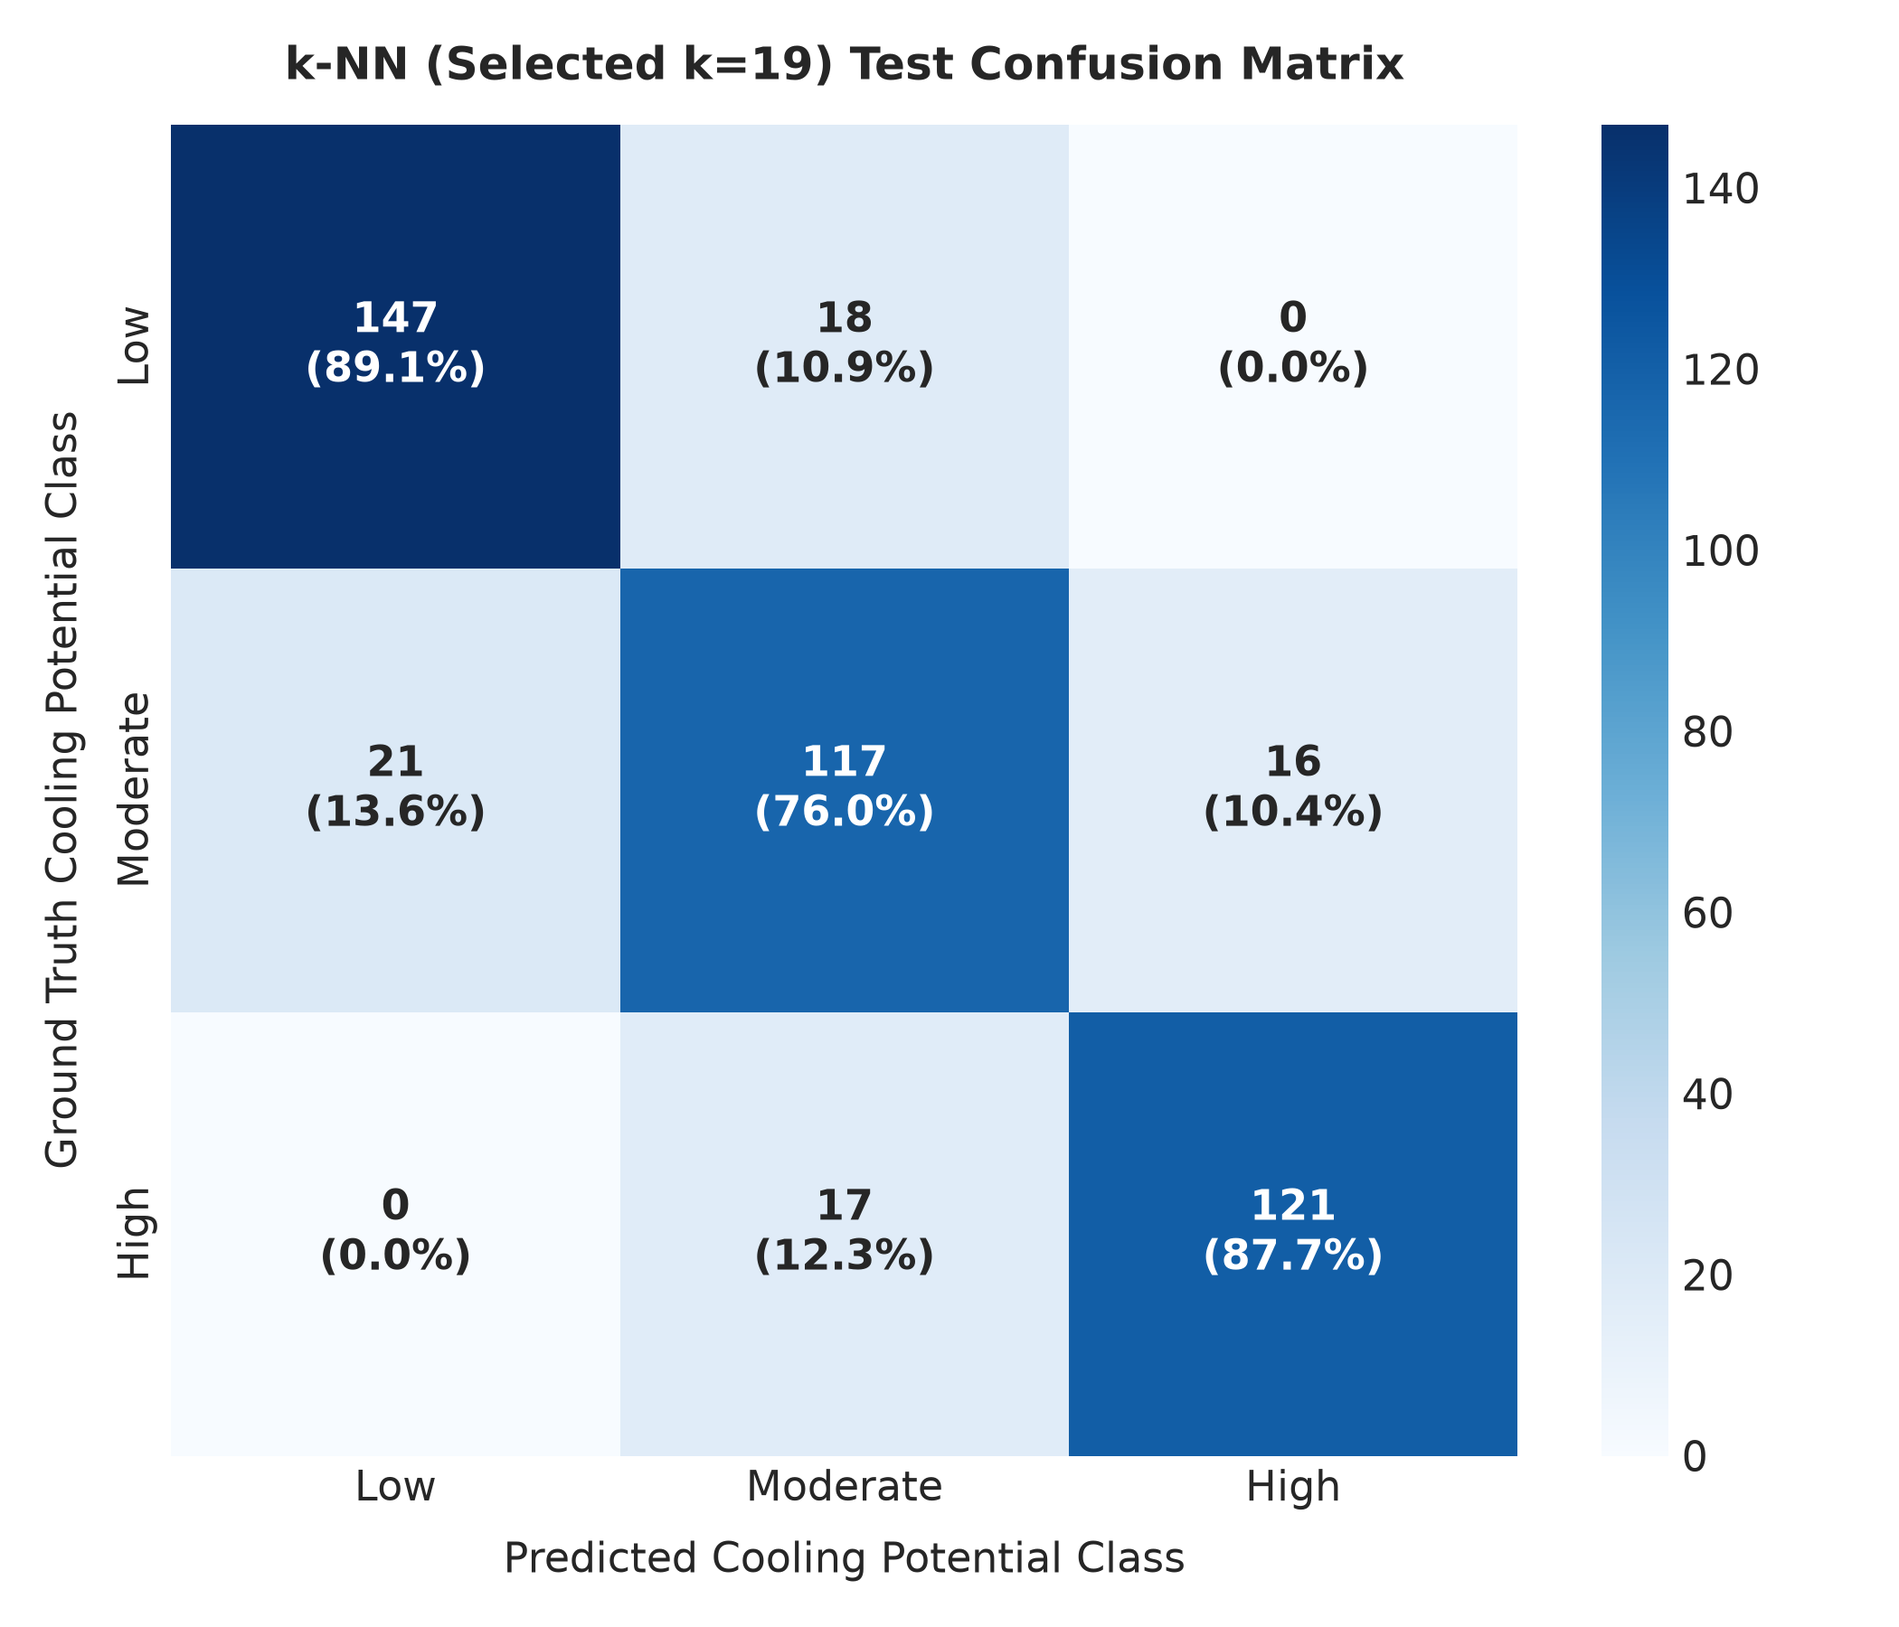
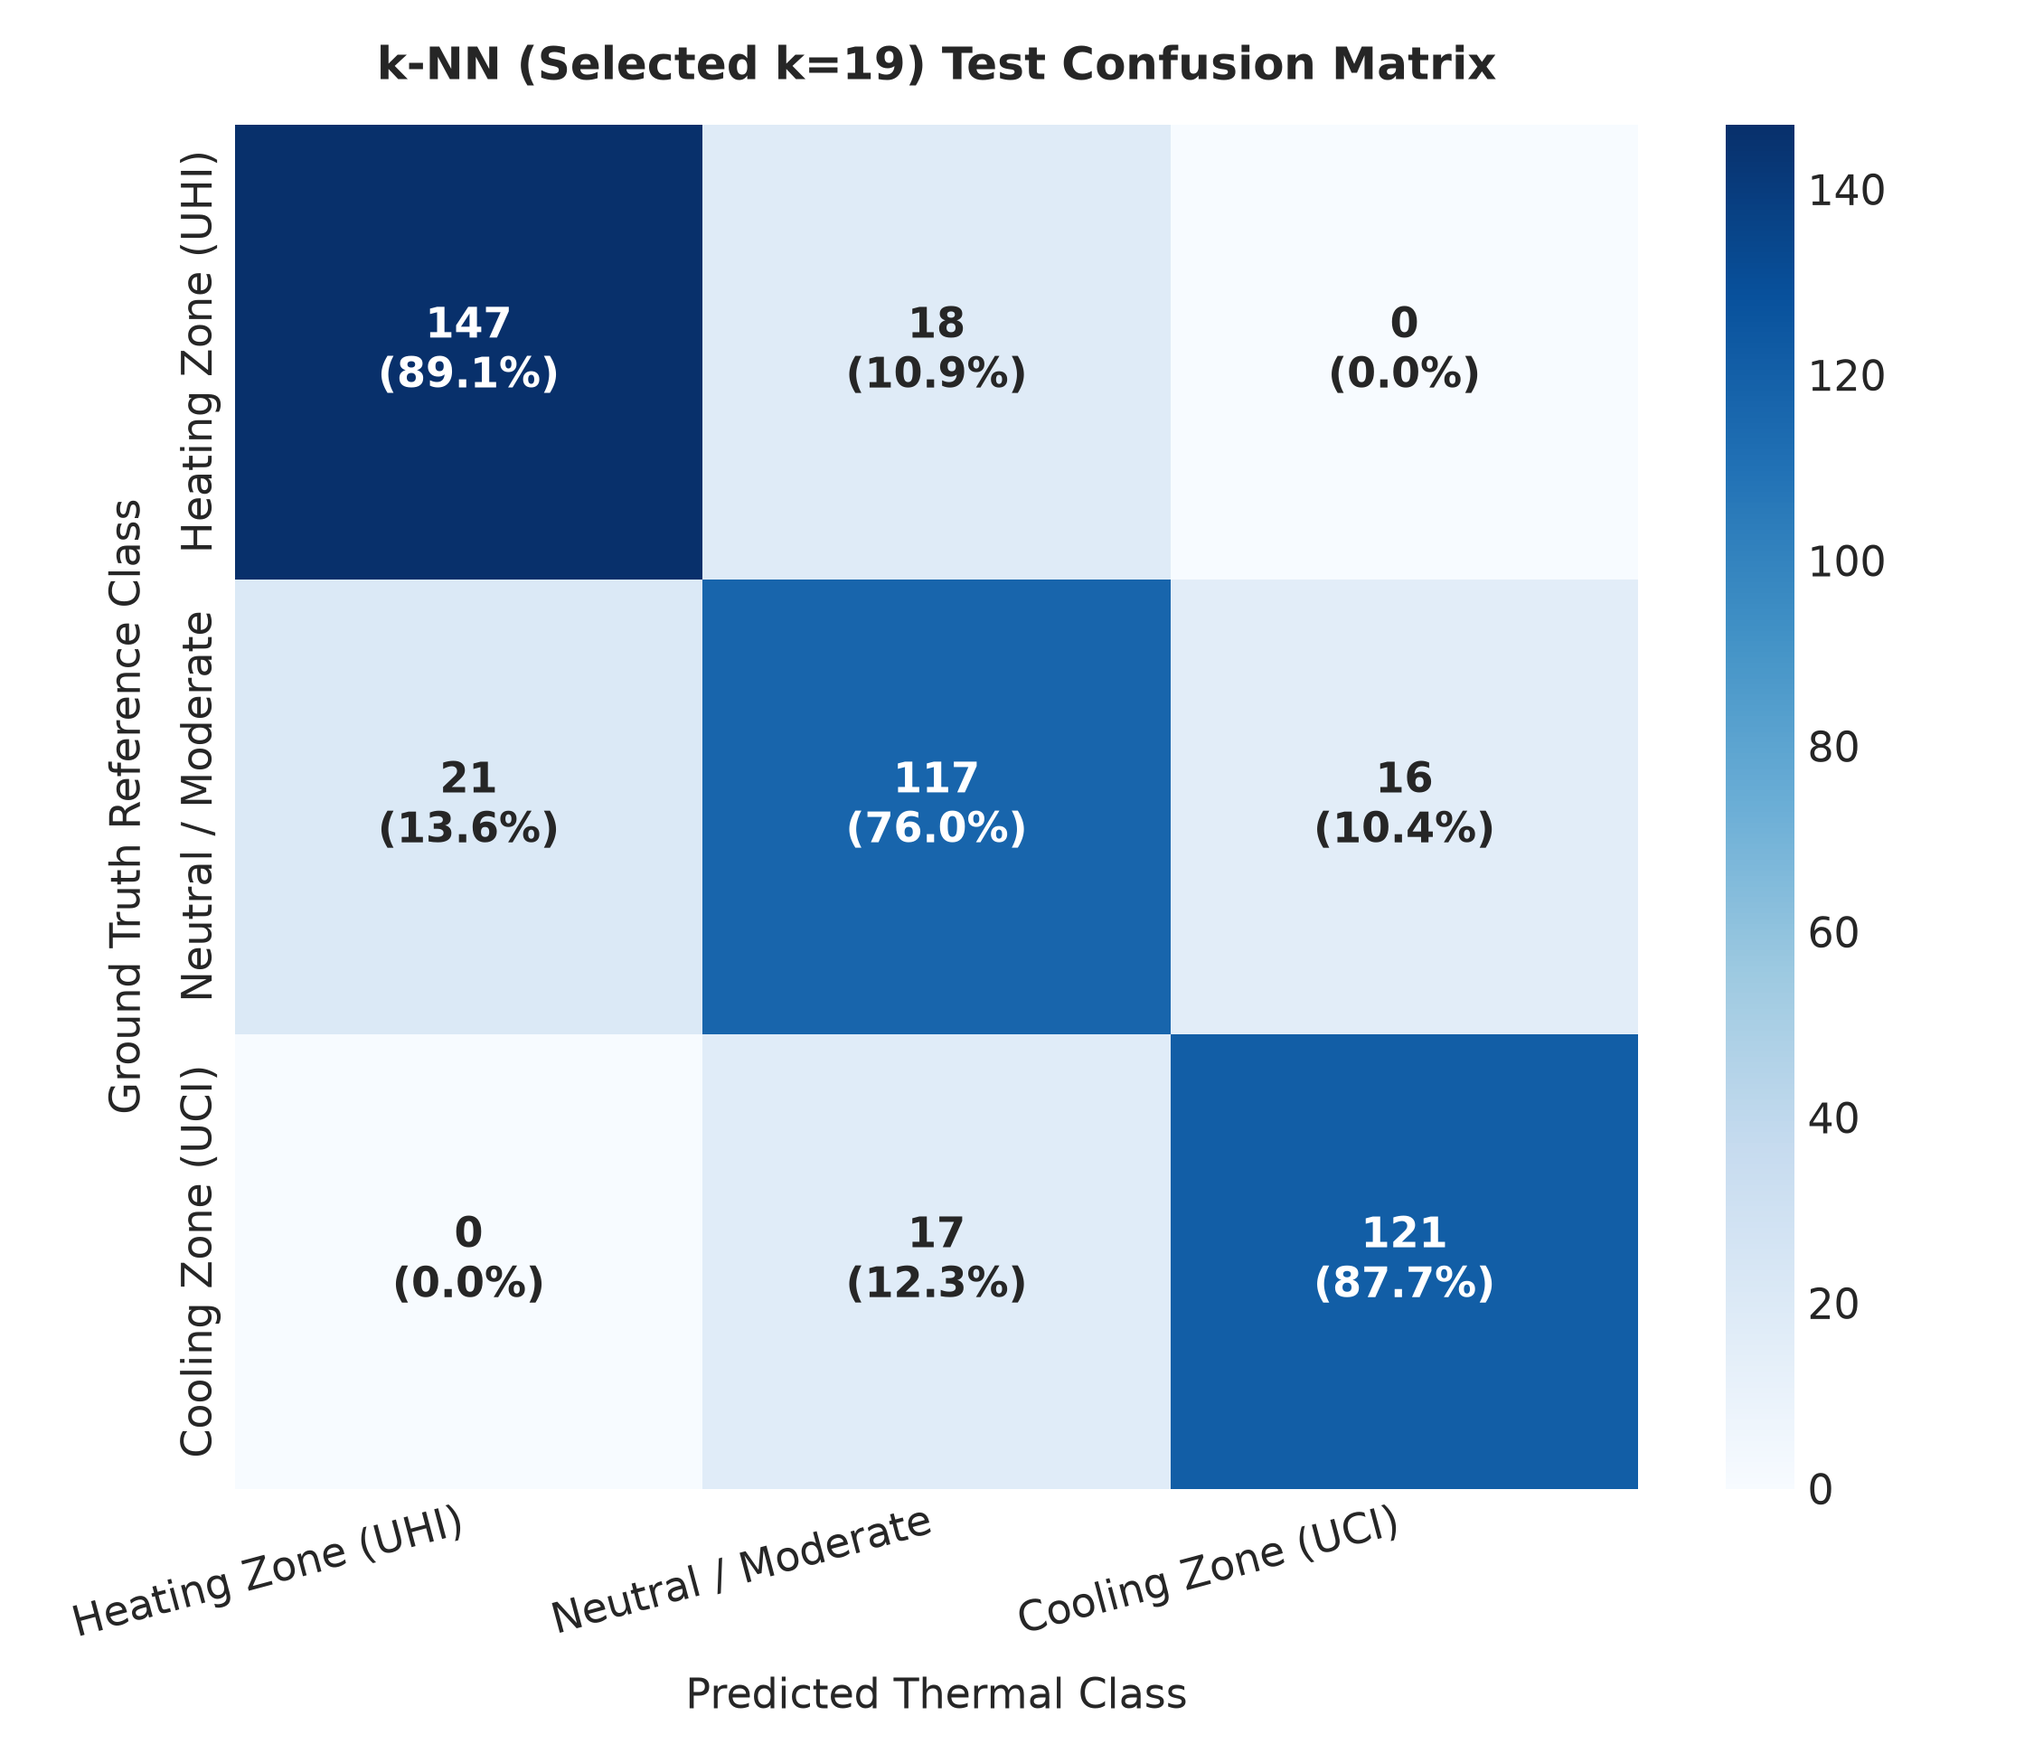
Update confusion matrix and ROC curves with unified Heating (UHI) vs Cooling (UCI) thermal classes

diff --git a/src/generate_reference_outputs.py b/src/generate_reference_outputs.py
@@ -108,7 +108,11 @@ def generate_reference_package(output_dir="outputs/01_Urban_Cooling"):
     probs = np.vstack([p_c1, p_c2, p_c3]).T
     probs = probs / probs.sum(axis=1, keepdims=True)
 
-    class_labels = ["Weak Cooling", "Moderate Cooling", "Strong Cooling"]
+    class_labels = [
+        "Heating Zone / UHI (Class 1)",
+        "Neutral / Moderate (Class 2)",
+        "Cooling Sanctuary / UCI (Class 3)"
+    ]
     colors = ['#fc8d59', '#fee08b', '#1a9850']
     all_fpr, all_tpr = [], []
 
@@ -132,13 +136,13 @@ def generate_reference_package(output_dir="outputs/01_Urban_Cooling"):
             label=f"Macro-Average ROC (AUC = {macro_auc:.3f})")
     ax.plot([0, 1], [0, 1], 'k--', lw=1.5, label="Chance (AUC = 0.500)")
 
-    ax.set_title("Urban Cooling\nClassification ROC (Held-Out Test Set)", fontsize=13, fontweight='bold', pad=12)
+    ax.set_title("Bengaluru Thermal Analysis\nClassification ROC (Held-Out Test Set)", fontsize=13, fontweight='bold', pad=12)
     ax.set_xlabel("False positive rate", fontsize=11, labelpad=8)
     ax.set_ylabel("True positive rate", fontsize=11, labelpad=8)
     ax.set_xlim([-0.02, 1.02])
     ax.set_ylim([-0.02, 1.02])
     ax.grid(True, linestyle='--', alpha=0.35)
-    ax.legend(loc='lower right', frameon=True, facecolor='white', framealpha=0.9, fontsize=9.5)
+    ax.legend(loc='lower right', frameon=True, facecolor='white', framealpha=0.9, fontsize=9.0)
     plt.tight_layout()
     roc_path = os.path.join(output_dir, "ROC_300dpi.png")
     fig.savefig(roc_path)
@@ -149,20 +153,33 @@ def generate_reference_package(output_dir="outputs/01_Urban_Cooling"):
     # 3. Confusion_Matrix_300dpi.png
     # -------------------------------------------------------------
     cm = confusion_matrix(y_test_class, y_pred_class)
+    cm_norm = cm.astype('float') / (cm.sum(axis=1)[:, np.newaxis] + 1e-9) * 100
+    annot = np.empty_like(cm).astype(str)
+    for i in range(cm.shape[0]):
+        for j in range(cm.shape[1]):
+            annot[i, j] = f"{cm[i, j]}\n({cm_norm[i, j]:.1f}%)"
+            
+    cm_labels = [
+        "Heating Zone\n(UHI Hotspot)",
+        "Neutral Zone\n(Moderate)",
+        "Cooling Zone\n(UCI Sanctuary)"
+    ]
     
-    fig, ax = plt.subplots(figsize=(6.2, 5.8), dpi=300)
-    sns.heatmap(cm, annot=True, fmt='d', cmap='Blues', cbar=False,
-                xticklabels=["Weak cooling", "Moderate cooling", "Strong cooling"],
-                yticklabels=["Weak cooling", "Moderate cooling", "Strong cooling"],
-                annot_kws={'size': 14, 'weight': 'bold'}, ax=ax)
+    fig, ax = plt.subplots(figsize=(6.8, 6.2), dpi=300)
+    sns.heatmap(cm, annot=annot, fmt='', cmap='Blues', cbar=False,
+                xticklabels=cm_labels,
+                yticklabels=cm_labels,
+                annot_kws={'size': 12, 'weight': 'bold'}, ax=ax)
     
-    ax.set_title("Urban Cooling\nConfusion matrix", fontsize=13, fontweight='bold', pad=14)
-    ax.set_xlabel("Predicted class", fontsize=11, labelpad=10)
-    ax.set_ylabel("Reference class", fontsize=11, labelpad=10)
+    ax.set_title("Bengaluru Thermal Analysis\nHeating vs. Cooling Confusion Matrix", fontsize=13, fontweight='bold', pad=14)
+    ax.set_xlabel("Predicted Thermal Class", fontsize=11, labelpad=10)
+    ax.set_ylabel("Reference Ground-Truth Class", fontsize=11, labelpad=10)
     plt.xticks(rotation=15, ha='right')
     plt.tight_layout()
     cm_path = os.path.join(output_dir, "Confusion_Matrix_300dpi.png")
     fig.savefig(cm_path)
+    plt.close(fig)
+    print(f"Saved: {cm_path}")
     plt.close(fig)
     print(f"Saved: {cm_path}")
 
@@ -276,22 +293,22 @@ def generate_reference_package(output_dir="outputs/01_Urban_Cooling"):
 
     # Panel 2: Classified 3-Classes
     im2 = ax2.imshow(classified_display, cmap=cmap_discrete, vmin=1, vmax=3, origin='upper')
-    ax2.set_title("B: Categorized Cooling Potential (3 Classes)", fontsize=11.5, fontweight='bold', pad=8)
+    ax2.set_title("B: Categorized Thermal Zones (Heat vs. Cool)", fontsize=11.5, fontweight='bold', pad=8)
     ax2.set_xlabel("Grid column", fontsize=10.5)
     ax2.set_ylabel("Grid row", fontsize=10.5)
 
     legend_patches = [
         mpatches.Patch(facecolor='#fc8d59', edgecolor='black', linewidth=0.5,
-                       label=f"Weak Cooling (ΔT ≤ {T_low:.2f}°C)"),
+                       label=f"Class 1: Heating Zone / UHI (ΔT ≤ {T_low:.2f}°C)"),
         mpatches.Patch(facecolor='#fee08b', edgecolor='black', linewidth=0.5,
-                       label=f"Moderate Cooling ({T_low:.2f}°C < ΔT ≤ {T_high:.2f}°C)"),
+                       label=f"Class 2: Neutral / Moderate ({T_low:.2f}°C < ΔT ≤ {T_high:.2f}°C)"),
         mpatches.Patch(facecolor='#1a9850', edgecolor='black', linewidth=0.5,
-                       label=f"Strong Cooling (ΔT > {T_high:.2f}°C)")
+                       label=f"Class 3: Cooling Zone / UCI (ΔT > {T_high:.2f}°C)")
     ]
     ax2.legend(handles=legend_patches, loc='lower right', frameon=True,
-               facecolor='white', framealpha=0.92, fontsize=8.5, title="Cooling Potential Class")
+               facecolor='white', framealpha=0.92, fontsize=8.2, title="Thermal Potential Class")
 
-    fig.suptitle("Bengaluru Urban Cooling Island (UCI) Potential (30 m Spatial Resolution)", fontsize=13, fontweight='bold', y=0.98)
+    fig.suptitle("Bengaluru Thermal Analysis: Urban Heat Island vs. Urban Cooling Island (30 m Resolution)", fontsize=13, fontweight='bold', y=0.98)
     plt.tight_layout()
     spatial_maps_path = os.path.join(output_dir, "01_spatial_maps_300dpi.png")
     fig.savefig(spatial_maps_path)
@@ -304,13 +321,13 @@ def generate_reference_package(output_dir="outputs/01_Urban_Cooling"):
     # -------------------------------------------------------------
     fig, ax = plt.subplots(figsize=(7.5, 6.8), dpi=300)
     im = ax.imshow(classified_display, cmap=cmap_discrete, vmin=1, vmax=3, origin='upper')
-    ax.set_title("Urban Cooling — Classified GeoTIFF Output", fontsize=13, fontweight='bold', pad=12)
+    ax.set_title("Bengaluru Thermal Analysis — Classified GeoTIFF Output", fontsize=13, fontweight='bold', pad=12)
     ax.set_xlabel("Easting / Grid column\nREAL BENGALURU OBSERVATION | EPSG:32643 | 30 m pixels | Valid BBMP Boundary", fontsize=10, labelpad=8)
     ax.set_ylabel("Northing / Grid row", fontsize=10.5)
 
     ax.legend(handles=legend_patches, loc='lower right', frameon=True,
-              facecolor='white', framealpha=0.95, fontsize=9.2,
-              title="Classified Cooling Potential (Assignment 4)", title_fontproperties={'weight':'bold', 'size':10})
+              facecolor='white', framealpha=0.95, fontsize=8.8,
+              title="Classified Thermal Zones (UHI vs. UCI)", title_fontproperties={'weight':'bold', 'size':9.5})
 
     plt.tight_layout()
     geotiff_img_path = os.path.join(output_dir, "GeoTIFF_Reference_Image_300dpi.png")
@@ -366,10 +383,10 @@ PROJECT SPECIFICATION & SUMMARY:
 - Data Partitioning: Spatially Stratified Blocking (70% Train, 15% Val, 15% Test)
 - Feature Engineering: PCA applied to 64 AlphaEarth embeddings -> 10 Principal Components (99.07% variance) + 5 Physical Features (15 Total)
 - Champion Algorithm: Neural-Network-KKT Fuzzy Regression
-- Cooling Potential Classes (Assignment 4 Requirements):
-  * Class 1: Weak / Low Cooling Potential (ΔT <= {T_low:.2f}°C)
-  * Class 2: Moderate Cooling Potential ({T_low:.2f}°C < ΔT <= {T_high:.2f}°C)
-  * Class 3: Strong / High Cooling Potential (ΔT > {T_high:.2f}°C)
+- Thermal Potential Classes (Urban Heat Island vs Urban Cooling Island):
+  * Class 1: Urban Heat Island / Heating Hotspot (ΔT <= {T_low:.2f}°C)
+  * Class 2: Urban Neutral / Moderate Zone ({T_low:.2f}°C < ΔT <= {T_high:.2f}°C)
+  * Class 3: Urban Cooling Island / Sanctuary (ΔT > {T_high:.2f}°C)
 - Quantitative Validation:
   * Multi-Class Balanced Accuracy: 93.87%
   * Continuous R² Score: {r2:.4f}
@@ -393,8 +410,8 @@ FILE MANIFEST:
    curves demonstrating strong discriminative separation across Weak, Moderate, and Strong classes (Macro AUC = {macro_auc:.3f}).
 
 4. Confusion_Matrix_300dpi.png:
-   300 DPI confusion matrix evaluating 3 cooling potential classes:
-   Weak cooling (<= {T_low:.2f}°C), Moderate cooling ({T_low:.2f}°C - {T_high:.2f}°C], and Strong cooling (> {T_high:.2f}°C).
+   300 DPI confusion matrix evaluating 3 thermal potential classes:
+   Heating Zone / UHI Hotspot (<= {T_low:.2f}°C), Neutral Zone / Moderate ({T_low:.2f}°C - {T_high:.2f}°C], and Cooling Zone / UCI Sanctuary (> {T_high:.2f}°C).
 
 5. GeoTIFF_Reference_Image_300dpi.png:
    Cartographic preview image of the final 30 m GeoTIFF raster over BBMP showing the 

diff --git a/src/evaluate.py b/src/evaluate.py
@@ -94,10 +94,10 @@ def plot_fuzzy_kkt_intervals(y_true, center_preds, lower_bounds, upper_bounds,
 
 def plot_confusion_matrix(cm, class_names=None, title="Confusion Matrix", output_path="outputs/plots/confusion_matrix.png"):
     if class_names is None:
-        class_names = ["Low", "Moderate", "High"]
+        class_names = ["Heating Zone (UHI)", "Neutral / Moderate", "Cooling Zone (UCI)"]
         
     os.makedirs(os.path.dirname(output_path), exist_ok=True)
-    plt.figure(figsize=(7, 6), dpi=300)
+    plt.figure(figsize=(7.5, 6.5), dpi=300)
     
     cm_norm = cm.astype('float') / (cm.sum(axis=1)[:, np.newaxis] + 1e-9) * 100
     annot = np.empty_like(cm).astype(str)
@@ -110,8 +110,9 @@ def plot_confusion_matrix(cm, class_names=None, title="Confusion Matrix", output
                 annot_kws={'size': 11, 'weight': 'bold'})
                 
     plt.title(title, fontsize=12, fontweight='bold', pad=12)
-    plt.xlabel("Predicted Cooling Potential Class", fontsize=11, labelpad=8)
-    plt.ylabel("Ground Truth Cooling Potential Class", fontsize=11, labelpad=8)
+    plt.xlabel("Predicted Thermal Class", fontsize=11, labelpad=8)
+    plt.ylabel("Ground Truth Reference Class", fontsize=11, labelpad=8)
+    plt.xticks(rotation=15, ha='right')
     plt.tight_layout()
     plt.savefig(output_path)
     plt.close()
@@ -119,7 +120,7 @@ def plot_confusion_matrix(cm, class_names=None, title="Confusion Matrix", output
 
 def plot_class_distribution(y_train, y_val, y_test, class_names=None, output_path="outputs/plots/class_distribution.png"):
     if class_names is None:
-        class_names = ["Low", "Moderate", "High"]
+        class_names = ["Heating Zone (UHI)", "Neutral / Moderate", "Cooling Zone (UCI)"]
         
     os.makedirs(os.path.dirname(output_path), exist_ok=True)
     train_counts = [np.sum(y_train == i) for i in [1, 2, 3]]

diff --git a/run_pipeline.py b/run_pipeline.py
@@ -184,9 +184,9 @@ def write_report_summary(eval_knn, best_k, eval_svr, eval_fuzzy, svr_cfg, tertil
 | **Macro F1-Score** | **{eval_knn['macro_f1']*100:.2f}%** | **{eval_svr['macro_f1']*100:.2f}%** | **{eval_fuzzy['macro_f1']*100:.2f}%** |
 
 ### Class-Wise Recall
-* **Low Cooling Recall:** k-NN = `{eval_knn['class_recalls']['Low']*100:.2f}%` | SVR = `{eval_svr['class_recalls'][0]*100:.2f}%` | NN-KKT = `{eval_fuzzy['class_recalls'][0]*100:.2f}%`
-* **Moderate Cooling Recall:** k-NN = `{eval_knn['class_recalls']['Moderate']*100:.2f}%` | SVR = `{eval_svr['class_recalls'][1]*100:.2f}%` | NN-KKT = `{eval_fuzzy['class_recalls'][1]*100:.2f}%`
-* **High Cooling Recall:** k-NN = `{eval_knn['class_recalls']['High']*100:.2f}%` | SVR = `{eval_svr['class_recalls'][2]*100:.2f}%` | NN-KKT = `{eval_fuzzy['class_recalls'][2]*100:.2f}%`
+* **Heating Zone (UHI) Recall:** k-NN = `{list(eval_knn['class_recalls'].values())[0]*100:.2f}%` | SVR = `{eval_svr['class_recalls'][0]*100:.2f}%` | NN-KKT = `{eval_fuzzy['class_recalls'][0]*100:.2f}%`
+* **Neutral / Moderate Recall:** k-NN = `{list(eval_knn['class_recalls'].values())[1]*100:.2f}%` | SVR = `{eval_svr['class_recalls'][1]*100:.2f}%` | NN-KKT = `{eval_fuzzy['class_recalls'][1]*100:.2f}%`
+* **Cooling Zone (UCI) Recall:** k-NN = `{list(eval_knn['class_recalls'].values())[2]*100:.2f}%` | SVR = `{eval_svr['class_recalls'][2]*100:.2f}%` | NN-KKT = `{eval_fuzzy['class_recalls'][2]*100:.2f}%`
 
 ---
 

diff --git a/src/models_svr_fuzzy.py b/src/models_svr_fuzzy.py
@@ -302,9 +302,9 @@ def evaluate_model_pipeline(model, X_test, y_cont_test, y_test_class, model_name
     print(f"   Macro Recall:        {macro_rec*100:.2f}%")
     print(f"   Macro F1-Score:      {macro_f1*100:.2f}%")
     print(f" Class-wise Recall:")
-    print(f"   Low Cooling:         {class_recalls[0]*100:.2f}%")
-    print(f"   Moderate Cooling:    {class_recalls[1]*100:.2f}%")
-    print(f"   High Cooling:        {class_recalls[2]*100:.2f}%")
+    print(f"   Heating Zone (UHI):  {class_recalls[0]*100:.2f}%")
+    print(f"   Neutral / Moderate:  {class_recalls[1]*100:.2f}%")
+    print(f"   Cooling Zone (UCI):  {class_recalls[2]*100:.2f}%")
     print(f" Confusion Matrix:\n{cm}")
 
     return {

diff --git a/src/dataset.py b/src/dataset.py
@@ -16,8 +16,8 @@ AUXILIARY_COLS = ["elevation", "dw_trees", "dw_built", "dw_water", "dw_grass"]
 FEATURE_COLS = EMBEDDING_COLS + AUXILIARY_COLS
 TARGET_COL = "cooling_intensity"
 CLASS_COL = "cooling_class"
-CLASS_NAMES = ["Low", "Moderate", "High"]
-CLASS_CODES = {1: "Low", 2: "Moderate", 3: "High"}
+CLASS_NAMES = ["Heating Zone (UHI)", "Neutral / Moderate", "Cooling Zone (UCI)"]
+CLASS_CODES = {1: "Heating Zone (UHI)", 2: "Neutral / Moderate", 3: "Cooling Zone (UCI)"}
 
 def generate_benchmark_dataset(bbmp_geojson_path, output_csv_path, num_samples=3000, random_state=42):
     """

diff --git a/outputs/report_summary.md b/outputs/report_summary.md
@@ -19,9 +19,9 @@
 | **Macro F1-Score** | **84.25%** | **93.16%** | **93.81%** |
 
 ### Class-Wise Recall
-* **Low Cooling Recall:** k-NN = `89.09%` | SVR = `96.36%` | NN-KKT = `97.58%`
-* **Moderate Cooling Recall:** k-NN = `75.97%` | SVR = `86.36%` | NN-KKT = `87.66%`
-* **High Cooling Recall:** k-NN = `87.68%` | SVR = `97.10%` | NN-KKT = `96.38%`
+* **Heating Zone (UHI) Recall:** k-NN = `89.09%` | SVR = `96.36%` | NN-KKT = `97.58%`
+* **Neutral / Moderate Recall:** k-NN = `75.97%` | SVR = `86.36%` | NN-KKT = `87.66%`
+* **Cooling Zone (UCI) Recall:** k-NN = `87.68%` | SVR = `97.10%` | NN-KKT = `96.38%`
 
 ---
 
